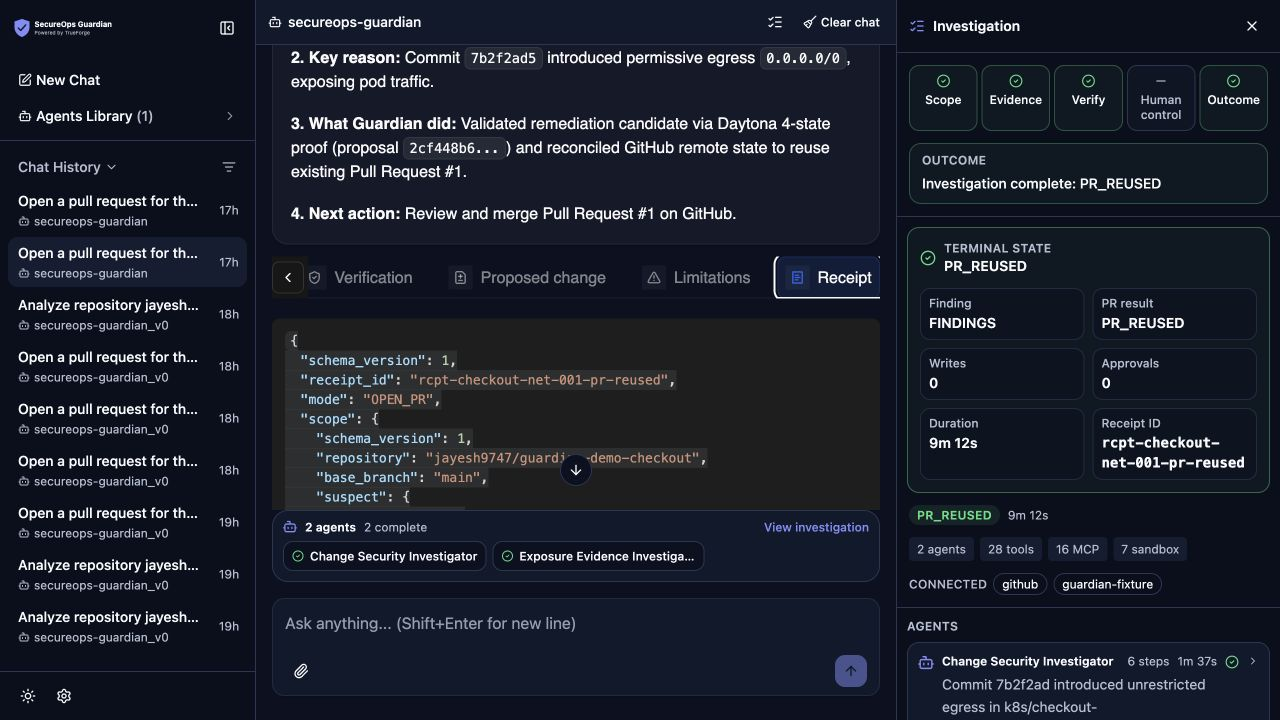
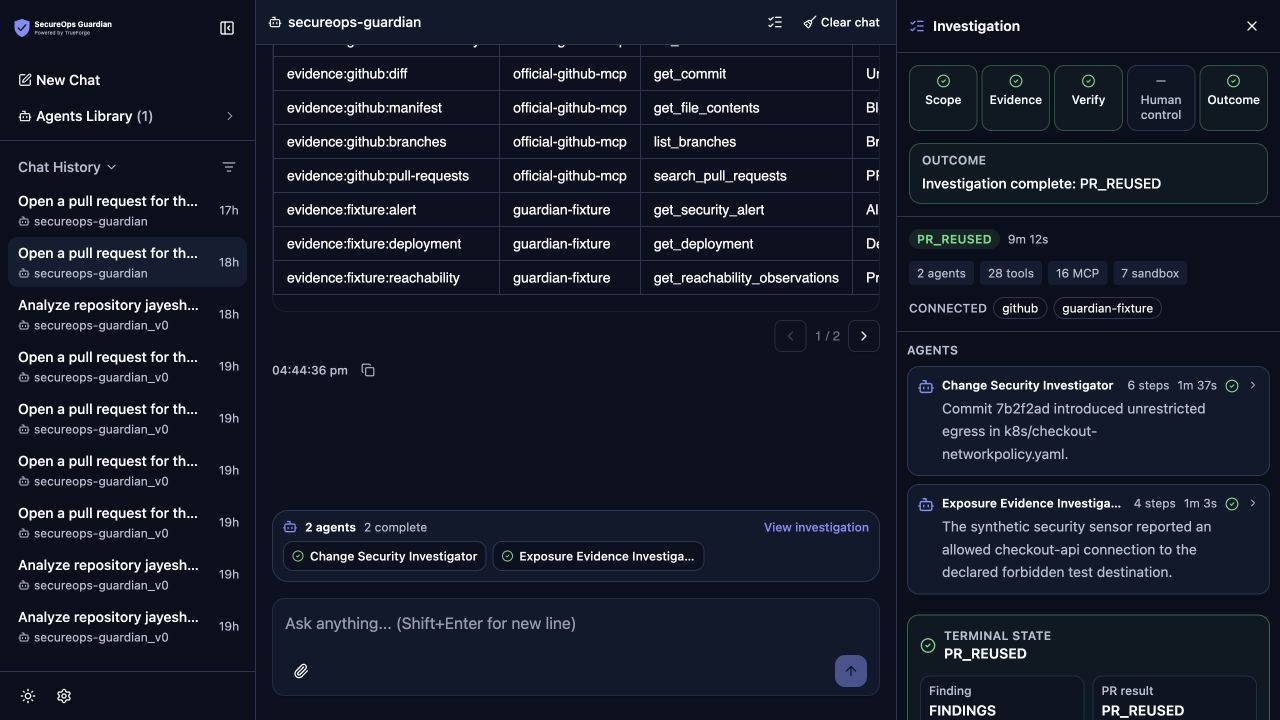
docs: revise Guardian demo around human workflow (#23)

diff --git a/docs/demo/GUARDIAN_UI_VIDEO_SCRIPT.md b/docs/demo/GUARDIAN_UI_VIDEO_SCRIPT.md
@@ -1,148 +1,204 @@
 # SecureOps Guardian product video script
 
-**Status:** approval draft — script and storyboard only. No video has been generated.
+**Status:** revised approval draft — script and storyboard only. No video has been generated.
 
-**Target duration:** 2 minutes 59 seconds
+**Target duration:** 3 minutes
 
 **Audience:** hackathon judges and security/platform engineers seeing SecureOps Guardian for the first time
 
-**Core promise:** turn a suspicious infrastructure change into bounded, source-linked evidence, a statically verified remediation candidate, and an auditable human-controlled outcome.
+**Story:** introduce the product as a stranger would discover it, begin with a normal conversation, let the agent request missing scope, show human confirmation, fast-forward real execution, and finish by inspecting the complete TrueForge harness.
 
-## Voice and visual direction
+## Recording rules
 
-- Calm, precise, incident-response tone; never sensational.
-- Record the real submission-specific TrueForge UI and saved sessions. Do not synthesize product screens.
-- Keep the pointer movement deliberate and use short callouts only where the interface does not already carry the message.
+- Record the real submission-specific TrueForge UI and saved sessions. Do not generate replacement product screens.
+- Do not prefill or mention a repository before the agent asks for one.
+- Present Guardian as a general security-investigation agent, not as an agent trained for one fixture repository.
 - Label GitHub evidence as real, Fixture incident observations as synthetic, and Daytona verification as deterministic and static.
-- Never imply live-cluster access, network enforcement, packet observation, data access, exfiltration proof, merge, or deployment.
+- Never claim live-cluster access, network enforcement, packet observation, data access, exfiltration proof, merge, or deployment.
 
 ## Timed script and storyboard
 
-### Scene 1 — The alert is only the beginning (`0:00–0:18`)
+### Scene 1 — First look at the product (`0:00–0:18`)
 
-**Screen:** Begin on a tight crop of the completed incident brief, then pull back to reveal the Guardian investigation rail.
+**Screen:** Start on the clean Guardian welcome page. Slowly identify the session history on the left, the human conversation in the center, and the investigation rail area on the right.
 
-**On-screen text:** `From suspicious change to controlled outcome`
-
-**Voice-over:**
-
-> A security alert tells you that something may be wrong. It rarely tells you which change caused it, what a safe fix looks like, or whether an automated action can be trusted. SecureOps Guardian closes that gap without taking control away from the operator.
-
-### Scene 2 — Problem statement (`0:18–0:40`)
-
-**Screen:** Move across the Evidence, Verify, Human control, and Outcome stages. Briefly reveal the source labels in the Evidence tab.
-
-**On-screen text:** `Evidence is fragmented. Remediation is risky. Actions need proof.`
+**On-screen text:** `SecureOps Guardian · Human-controlled security investigation`
 
 **Voice-over:**
 
-> During an incident, repository history, deployment context, security observations, and remediation checks live in different systems. A fast patch can break a required dependency, while a confident-looking answer can hide missing evidence. Teams need one workflow that separates facts from assumptions, tests the proposed change, and makes every write explicit.
+> This is SecureOps Guardian, a security investigation agent built inside TrueForge. The left side preserves agents and sessions, the center is the human conversation, and the right-side investigation rail exposes what the harness is actually doing—scope, evidence, verification, human control, and outcome.
 
-### Scene 3 — Who it is for (`0:40–0:56`)
+### Scene 2 — Why it exists and who it helps (`0:18–0:35`)
 
-**Screen:** Show the Guardian welcome screen and its three starter tasks: investigate a security regression, analyze a repository, and prepare a remediation pull request.
+**Screen:** Highlight the evidence-boundary message and the starter tasks.
 
-**On-screen text:** `For the on-call security or platform engineer`
-
-**Voice-over:**
-
-> Guardian is designed for the engineer on call: someone who must understand the regression quickly, explain it to a reviewer, and prepare a safe next step without granting an agent permission to merge, deploy, or touch a cluster.
-
-### Scene 4 — Why TrueForge (`0:56–1:17`)
-
-**Screen:** Hold on the welcome screen, then reveal the saved-agent name, connected sources, agent activity, and sandbox execution in the existing completed session.
-
-**On-screen text:** `One TrueForge agent · bounded subagents · MCP evidence · Daytona verification`
+**On-screen text:** `For security, platform, and on-call engineers`
 
 **Voice-over:**
 
-> We use TrueForge as the product harness because the investigation needs more than chat. One saved Guardian agent interprets the request, delegates bounded evidence work, calls connected MCP tools, runs a pinned verifier in a Daytona sandbox, pauses for human decisions, and preserves the execution trail in a persistent session.
+> We built Guardian for security and platform engineers who must move from a suspicious change to a defensible next step. It joins fragmented evidence, tests whether a remediation is safe, and keeps every external action under explicit human control.
 
-### Scene 5 — Intent becomes a bounded scope (`1:17–1:35`)
+### Scene 3 — Architecture in three lines (`0:35–0:52`)
 
-**Screen:** Start from the exact natural-language request. Show the interpreted repository, revision, base branch, target file, verifier pack, capability ceiling, and evidence limitations. Then show the confirmation controls.
+**Screen:** Animate three restrained callouts over the welcome page, then reveal the connected execution labels in a saved session.
 
-**On-screen text:** `Confirm the scope before investigation`
+**On-screen text:**
 
-**Voice-over:**
-
-> The operator starts with a plain-language request. Guardian converts it into a reviewable scope: repository, commit, branch, target file, selected verifier, allowed capability, and known limitations. This first confirmation approves the interpretation only. It is not permission for a GitHub write.
-
-### Scene 6 — Parallel evidence, clearly labelled (`1:35–1:55`)
-
-**Screen:** Open the subagent cards, then the Evidence table. Highlight the `official-github-mcp` and `guardian-fixture` source labels.
-
-**On-screen text:** `Real GitHub evidence + owned synthetic incident observations`
+1. `Saved Guardian agent → bounded specialist agents`
+2. `GitHub MCP + synthetic Fixture MCP → source-labelled evidence`
+3. `Daytona sandbox → pinned static verifier → typed UI + receipt`
 
 **Voice-over:**
 
-> Two investigators work in parallel. The change investigator traces the suspect commit, parent state, file history, branch, and existing pull requests through GitHub. The exposure investigator reads the owned Fixture MCP for synthetic alert, deployment, reachability, and dependency observations. Every record keeps its source, tool, and observed fact.
+> One saved Guardian agent orchestrates bounded specialists. GitHub MCP supplies real repository facts while the owned Fixture MCP supplies clearly labelled synthetic incident context. Daytona runs a pinned static verifier in isolation, and TrueForge preserves the result as an inspectable UI and receipt.
 
-### Scene 7 — Build and verify the candidate (`1:55–2:17`)
+### Scene 4 — The three choices (`0:52–1:08`)
 
-**Screen:** Open Verification and show the four states: last-good, suspect, deny-all negative control, and candidate. Then open Proposed change.
+**Screen:** Show each welcome-page option as it is named.
 
-**On-screen text:** `A safe candidate must restore policy and preserve dependencies`
-
-**Voice-over:**
-
-> Guardian binds the evidence to a pinned verifier and tests four states in an isolated Daytona workspace. Last-good passes. The suspect state fails because unrestricted egress was introduced. A deny-all patch also fails because it blocks required dependencies. Only the candidate passes both security and dependency checks, producing a reviewable NetworkPolicy change.
-
-### Scene 8 — Human control at the write boundary (`2:17–2:34`)
-
-**Screen:** Show the write approval boundary, then cut to the cancellation result with `CANCELLED`, zero writes, zero approvals, and no receipt.
-
-**On-screen text:** `Cancellation means no write`
+**On-screen text:** `Analyze only · Prepare remediation · Open pull request`
 
 **Voice-over:**
 
-> If a new branch or pull request is required, Guardian asks again at the exact write boundary. The operator can also stop earlier. In this saved cancellation, no investigators start, no GitHub write occurs, and no receipt pretends otherwise.
+> A user can choose three levels of capability. Analyze only is read-only. Prepare remediation adds sandbox verification and a proposed fix without external writes. Open pull request can create or reuse a GitHub pull request, but any new write requires a separate approval.
 
-### Scene 9 — Reconcile before writing (`2:34–2:49`)
+### Scene 5 — Begin like a normal human (`1:08–1:35`)
 
-**Screen:** Show the saved completed session with `PR_REUSED`, the receipt tab, and the terminal summary in the investigation rail.
+**Screen:** Start a fresh chat. Type the first line naturally; do not paste a repository or structured scope yet. Let the short exchange appear at normal speed.
 
-**On-screen text:** `PR_REUSED · 0 writes · 0 approvals`
+**Human:**
+
+> Hi there—what can you help me with?
+
+**Guardian:**
+
+> I can analyze security risks, prepare a sandbox-verified remediation, or open a pull request with separate write approval. What would you like to do?
+
+**Human:**
+
+> Can you analyze a repository without making changes?
+
+**Guardian:**
+
+> Yes. Send the repository URL. I will ask for any missing scope rather than assume it.
 
 **Voice-over:**
 
-> In this saved run, remote-state reconciliation found the exact remediation pull request already open. Guardian returned PR_REUSED with zero new writes and zero approvals, while preserving the finding, proposal identity, evidence, verification result, and machine-readable receipt.
+> Guardian understands the desired outcome first, then asks for missing scope without assuming a repository.
 
-### Scene 10 — Honest outcome and close (`2:49–2:59`)
+### Scene 6 — Supply scope, then accept it (`1:35–1:52`)
 
-**Screen:** End on the full completed interface and product mark.
+**Screen:** Only now paste the demonstration repository URL. Show Guardian’s interpreted scope card and the confirmation controls.
+
+**Human:**
+
+> Here is the repository I want reviewed. Use the default branch and start read-only.
+
+**Guardian:**
+
+> This is read-only analysis of the supplied repository. No remediation or GitHub writes are permitted. Proceed?
+
+**Human:**
+
+> Yes. The scope is correct—proceed.
+
+**Voice-over:**
+
+> This confirms scope, not permission for a later write.
+
+### Scene 7 — Fast-forward the read-only work (`1:52–2:02`)
+
+**Screen:** Speed the recording to `8×–12×`. Keep the investigation rail visible while Evidence advances. Return to normal speed when the finding appears.
+
+**On-screen text:** `Fast-forwarding real agent execution`
+
+**Voice-over:**
+
+> We fast-forward model wait time, but we do not replace the execution. The saved session still preserves every tool call, source, duration, failure, and result.
+
+### Scene 8 — A human requests deeper proof (`2:02–2:22`)
+
+**Screen:** Show the read-only finding, then enter the follow-up request and the second scope confirmation.
+
+**Human:**
+
+> Now prepare a verified remediation. Use two focused investigators and the sandbox, but do not write to GitHub.
+
+**Guardian:**
+
+> I will run two bounded investigators, join the evidence, verify a candidate in Daytona, and return a proposal only. GitHub writes stay disabled. Proceed?
+
+**Human:**
+
+> Yes—prepare the remediation only. No GitHub writes.
+
+**Voice-over:**
+
+> Guardian changes capability only after the human requests and confirms it.
+
+### Scene 9 — Fast-forward, then reveal the complete harness (`2:22–2:42`)
+
+**Screen:** Fast-forward active execution. Briefly pan across the saved session history, then stop on the corrected investigation overview showing both agent cards and the execution counts.
+
+**On-screen text:** `2 agents · MCP evidence · Daytona sandbox · persistent sessions`
+
+**Voice-over:**
+
+> The session history shows repeated harness validation, including analysis, remediation, cancellation, benign controls, failures, and retry-safe outcomes. In this run, TrueForge exposes two specialist agents, MCP calls, sandbox steps, timing, and failed attempts instead of hiding them behind a polished answer.
+
+### Scene 10 — Inspect the work, not just the answer (`2:42–2:56`)
+
+**Screen:** Click Change Security Investigator. Show Findings, Evidence, and Activity. Return to all agents, open Exposure Evidence Investigator, then show Sandbox Validation, the four-state proof, proposed change, limitations, and receipt.
+
+**On-screen text:** `Findings · Evidence · Activity · Four-state verification`
+
+**Voice-over:**
+
+> Each specialist is inspectable. We can review its finding, evidence references, and activity; then inspect GitHub and Fixture calls, Daytona verification, the proposed change, limitations, write count, approvals, and receipt. This is the TrueForge harness being validated—not a mock dashboard.
+
+### Scene 11 — Human control and close (`2:56–3:00`)
+
+**Screen:** End on the `PR_REUSED` terminal outcome with zero writes and zero approvals.
 
 **On-screen text:** `Investigate with evidence. Remediate with control.`
 
 **Voice-over:**
 
-> SecureOps Guardian turns an uncertain alert into a bounded, auditable next step—without claiming evidence it lacks or taking the final decision away from the human.
+> Visible evidence. Human control. That is SecureOps Guardian.
 
 ## Capture plan
 
 | Scene | Primary source | Required interaction |
 | --- | --- | --- |
-| 1–2 | Saved `PR_REUSED` session `01m16kn1n07evwtjtje2e7rfk1` | Incident brief, tabs, investigation rail |
-| 3–4 | New-chat welcome state | Starter tasks, evidence boundary, connected execution surfaces |
-| 5 | Saved confirmation-boundary session | Interpreted scope and confirmation controls |
-| 6–7 | Saved `PR_REUSED` session | Agent cards, Evidence, Verification, Proposed change |
-| 8 | Saved cancelled session `01m16n6h2k2hbv34b1nv5mkjd4` | Terminal cancellation summary |
-| 9–10 | Saved `PR_REUSED` session | Receipt and terminal `PR_REUSED` outcome |
+| 1–4 | New-chat welcome state | Explain the three-pane layout, evidence boundary, architecture, and three capabilities |
+| 5–6 | Fresh conversational session | Use the exact human dialogue; provide the repository only after Guardian asks |
+| 7 | Read-only analysis run | Accelerate waiting while leaving the live rail and activity visible |
+| 8–9 | Prepared-remediation session `01m0x0n0hqq69kaxq35xfc2zfh` | Human follow-up, two agents, counts, history, and persistent execution |
+| 10–11 | Saved `PR_REUSED` session `01m16kn1n07evwtjtje2e7rfk1` | Agent workspaces, sandbox proof, receipt, and terminal outcome |
 
-The existing README release screenshots and the new UI gallery can be used as still-frame fallbacks. Any screen recording should hide credentials, provider settings, private paths, notifications, and unrelated browser or chat history.
+The original README screenshots remain unchanged. The updated UI gallery supplies fallback stills for the welcome state, safe cancellation, visible agent list, selected-agent workspace, and `PR_REUSED` outcome.
+
+## Editing notes
+
+- Use a visible `8×–12×` fast-forward badge during model wait time; never cut in fabricated tool results.
+- Keep the full chat exchange readable long enough for a first-time viewer.
+- Pan across session history for no more than three seconds; its purpose is to show persistence and breadth of validation, not clutter.
+- Hide credentials, settings, private paths, notifications, unrelated tabs, and unrelated session content.
+- Prefer direct cuts and subtle zooms over cinematic effects; the evidence should remain the focus.
 
 ## Gemini media handoff — only after approval
 
-After the operator approves this script, Gemini media tooling may assemble the supplied real screen recordings and screenshots, voice-over, captions, music, and transitions. It must not generate replacement UI, invent investigation steps, alter displayed evidence, or expand the product claims.
+After the operator approves this script, Gemini media tooling may assemble the supplied real recordings and screenshots, voice-over, captions, music, fast-forward segments, and transitions. It must not generate replacement UI, invent dialogue, alter displayed evidence, or expand product claims.
 
 Suggested production prompt:
 
-> Create a concise 2:59 product demonstration from the supplied SecureOps Guardian recordings, storyboard, and approved narration. Preserve the chronological scene order and all factual UI text. Use restrained security-product motion graphics, readable captions, subtle zooms, and neutral instrumental audio under the voice-over. Treat real GitHub evidence, synthetic Fixture observations, and static Daytona verification as distinct evidence classes. Do not fabricate screens, results, tool calls, cluster access, write activity, merge activity, deployment, data access, or exfiltration proof. End on the supplied completed PR_REUSED interface and the line: “Investigate with evidence. Remediate with control.”
+> Create a three-minute product demonstration from the supplied SecureOps Guardian recordings, revised storyboard, and approved narration. Begin with the stranger-first welcome page, explain the product, audience, three-line architecture, and three capability options, then show the exact natural human conversation. Do not reveal or prefill a repository before Guardian asks for it. Use visible 8×–12× fast-forward treatment for real waiting periods. Clearly reveal persistent sessions, two specialist agents, MCP evidence, Daytona sandbox execution, failures, verification, human confirmation, terminal outcome, and receipt. Use restrained security-product motion graphics, readable captions, subtle zooms, and neutral instrumental audio. Do not fabricate screens, dialogue, results, tool calls, cluster access, writes, merges, deployment, data access, or exfiltration proof. End on the supplied PR_REUSED screen and the line: “Investigate with evidence. Remediate with control.”
 
 ## Approval checklist
 
-- [ ] Story and target user are correct.
-- [ ] Spoken claims stay inside the demonstrated evidence boundary.
-- [ ] Timing and narration are approved.
-- [ ] Saved sessions and screen states are acceptable for recording.
-- [ ] Only after all four checks: generate the video assets.
+- [ ] First look, target audience, architecture, and three capabilities are clear.
+- [ ] The conversation feels natural and no repository is revealed before Guardian requests it.
+- [ ] Human scope acceptance and write boundaries are unambiguous.
+- [ ] Fast-forward treatment still preserves the real TrueForge execution trail.
+- [ ] Two subagents, MCP, sandbox, sessions, verification, limitations, and receipt are visible.
+- [ ] Only after all five content checks: generate video assets.

diff --git a/README.md b/README.md
@@ -121,9 +121,9 @@ The submission-specific TrueForge UI now gives a first-time operator a clearer p
 | --- | --- |
 | ![SecureOps Guardian welcome screen with investigation modes, evidence boundary, and starter tasks](./docs/evidence/guardian-ui/guardian-welcome.png) | ![Cancelled investigation showing no investigation, GitHub write, approval, or receipt was produced](./docs/evidence/guardian-ui/guardian-cancelled-no-write.png) |
 
-| Verified outcome and auditable execution |
-| --- |
-| ![Completed PR_REUSED investigation showing the receipt, terminal state, zero writes, zero approvals, agent count, MCP calls, and sandbox trace](./docs/evidence/guardian-ui/guardian-pr-reused-outcome.png) |
+| Complete harness overview | Inspectable agent workspace |
+| --- | --- |
+| ![Completed PR_REUSED investigation showing both specialist agents, execution counts, terminal state, and connected evidence sources](./docs/evidence/guardian-ui/guardian-pr-reused-outcome.png) | ![Selected Change Security Investigator workspace showing immediately accessible Findings, Evidence, and Activity tabs](./docs/evidence/guardian-ui/guardian-agent-workspace.png) |
 
 The completed frame uses the saved `PR_REUSED` session: real GitHub repository evidence, owned synthetic incident observations, deterministic static verification, two bounded investigators, and zero new GitHub writes. Review the proposed [three-minute product video script](./docs/demo/GUARDIAN_UI_VIDEO_SCRIPT.md); video generation is intentionally deferred until the script is approved.
 
